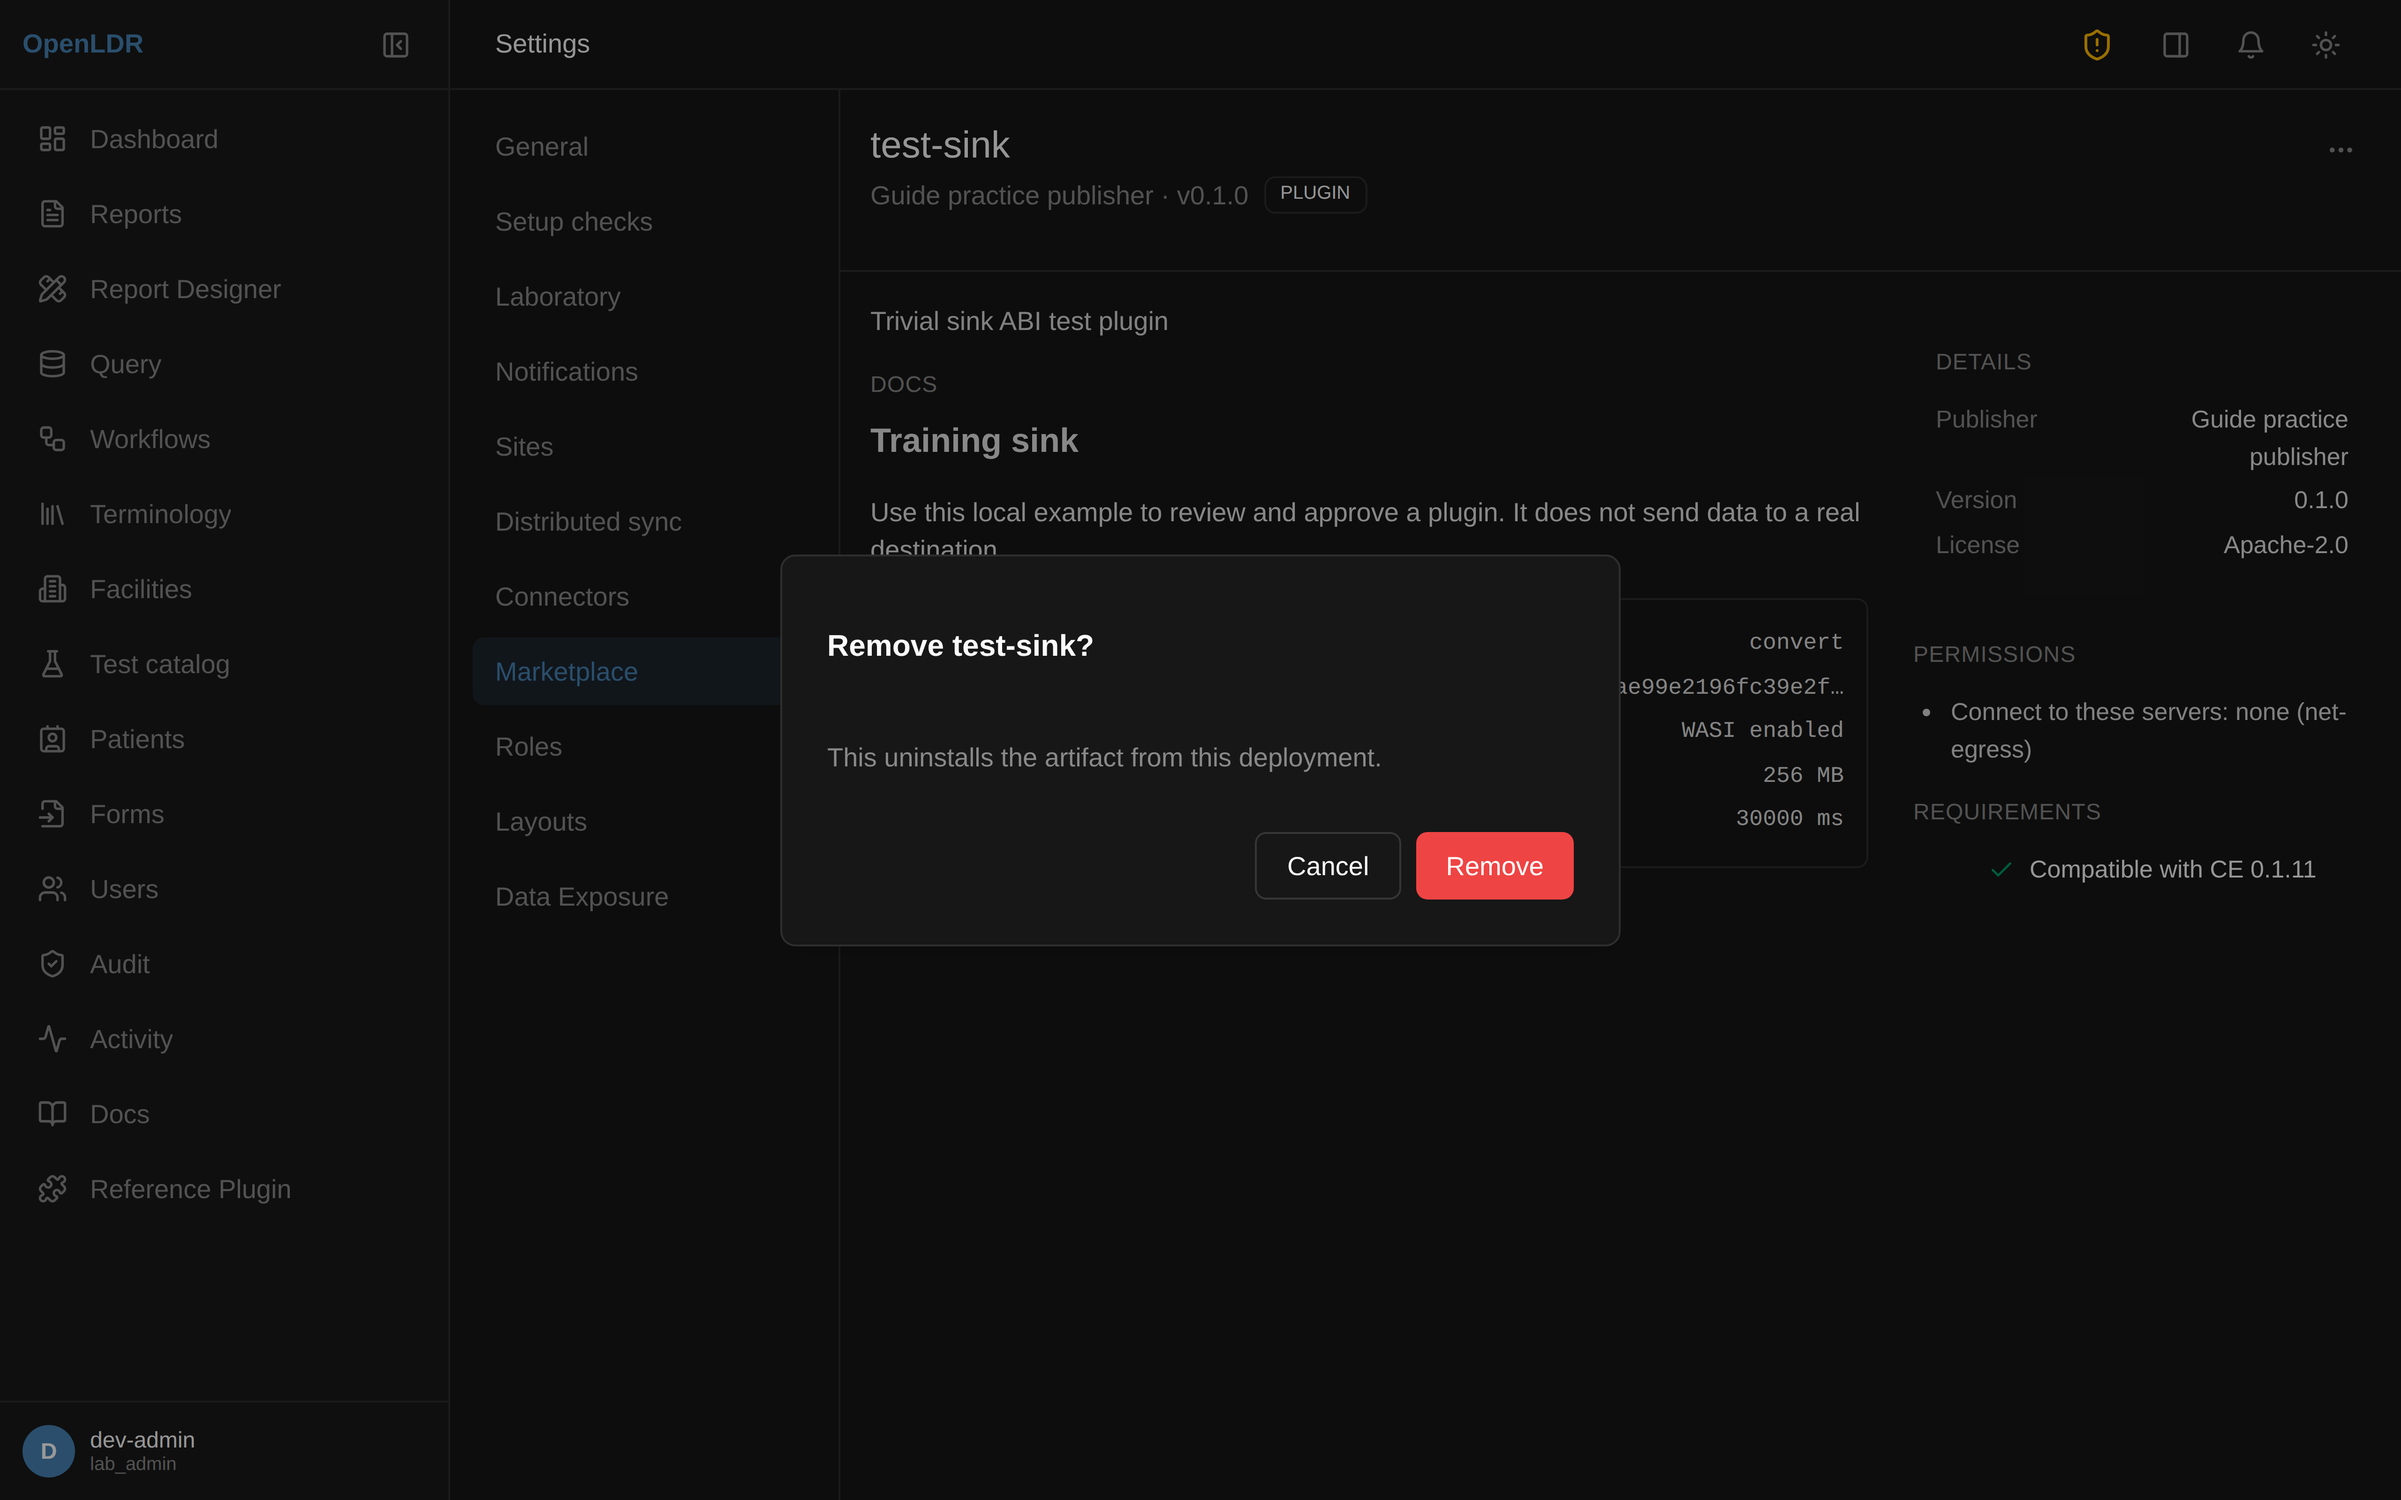
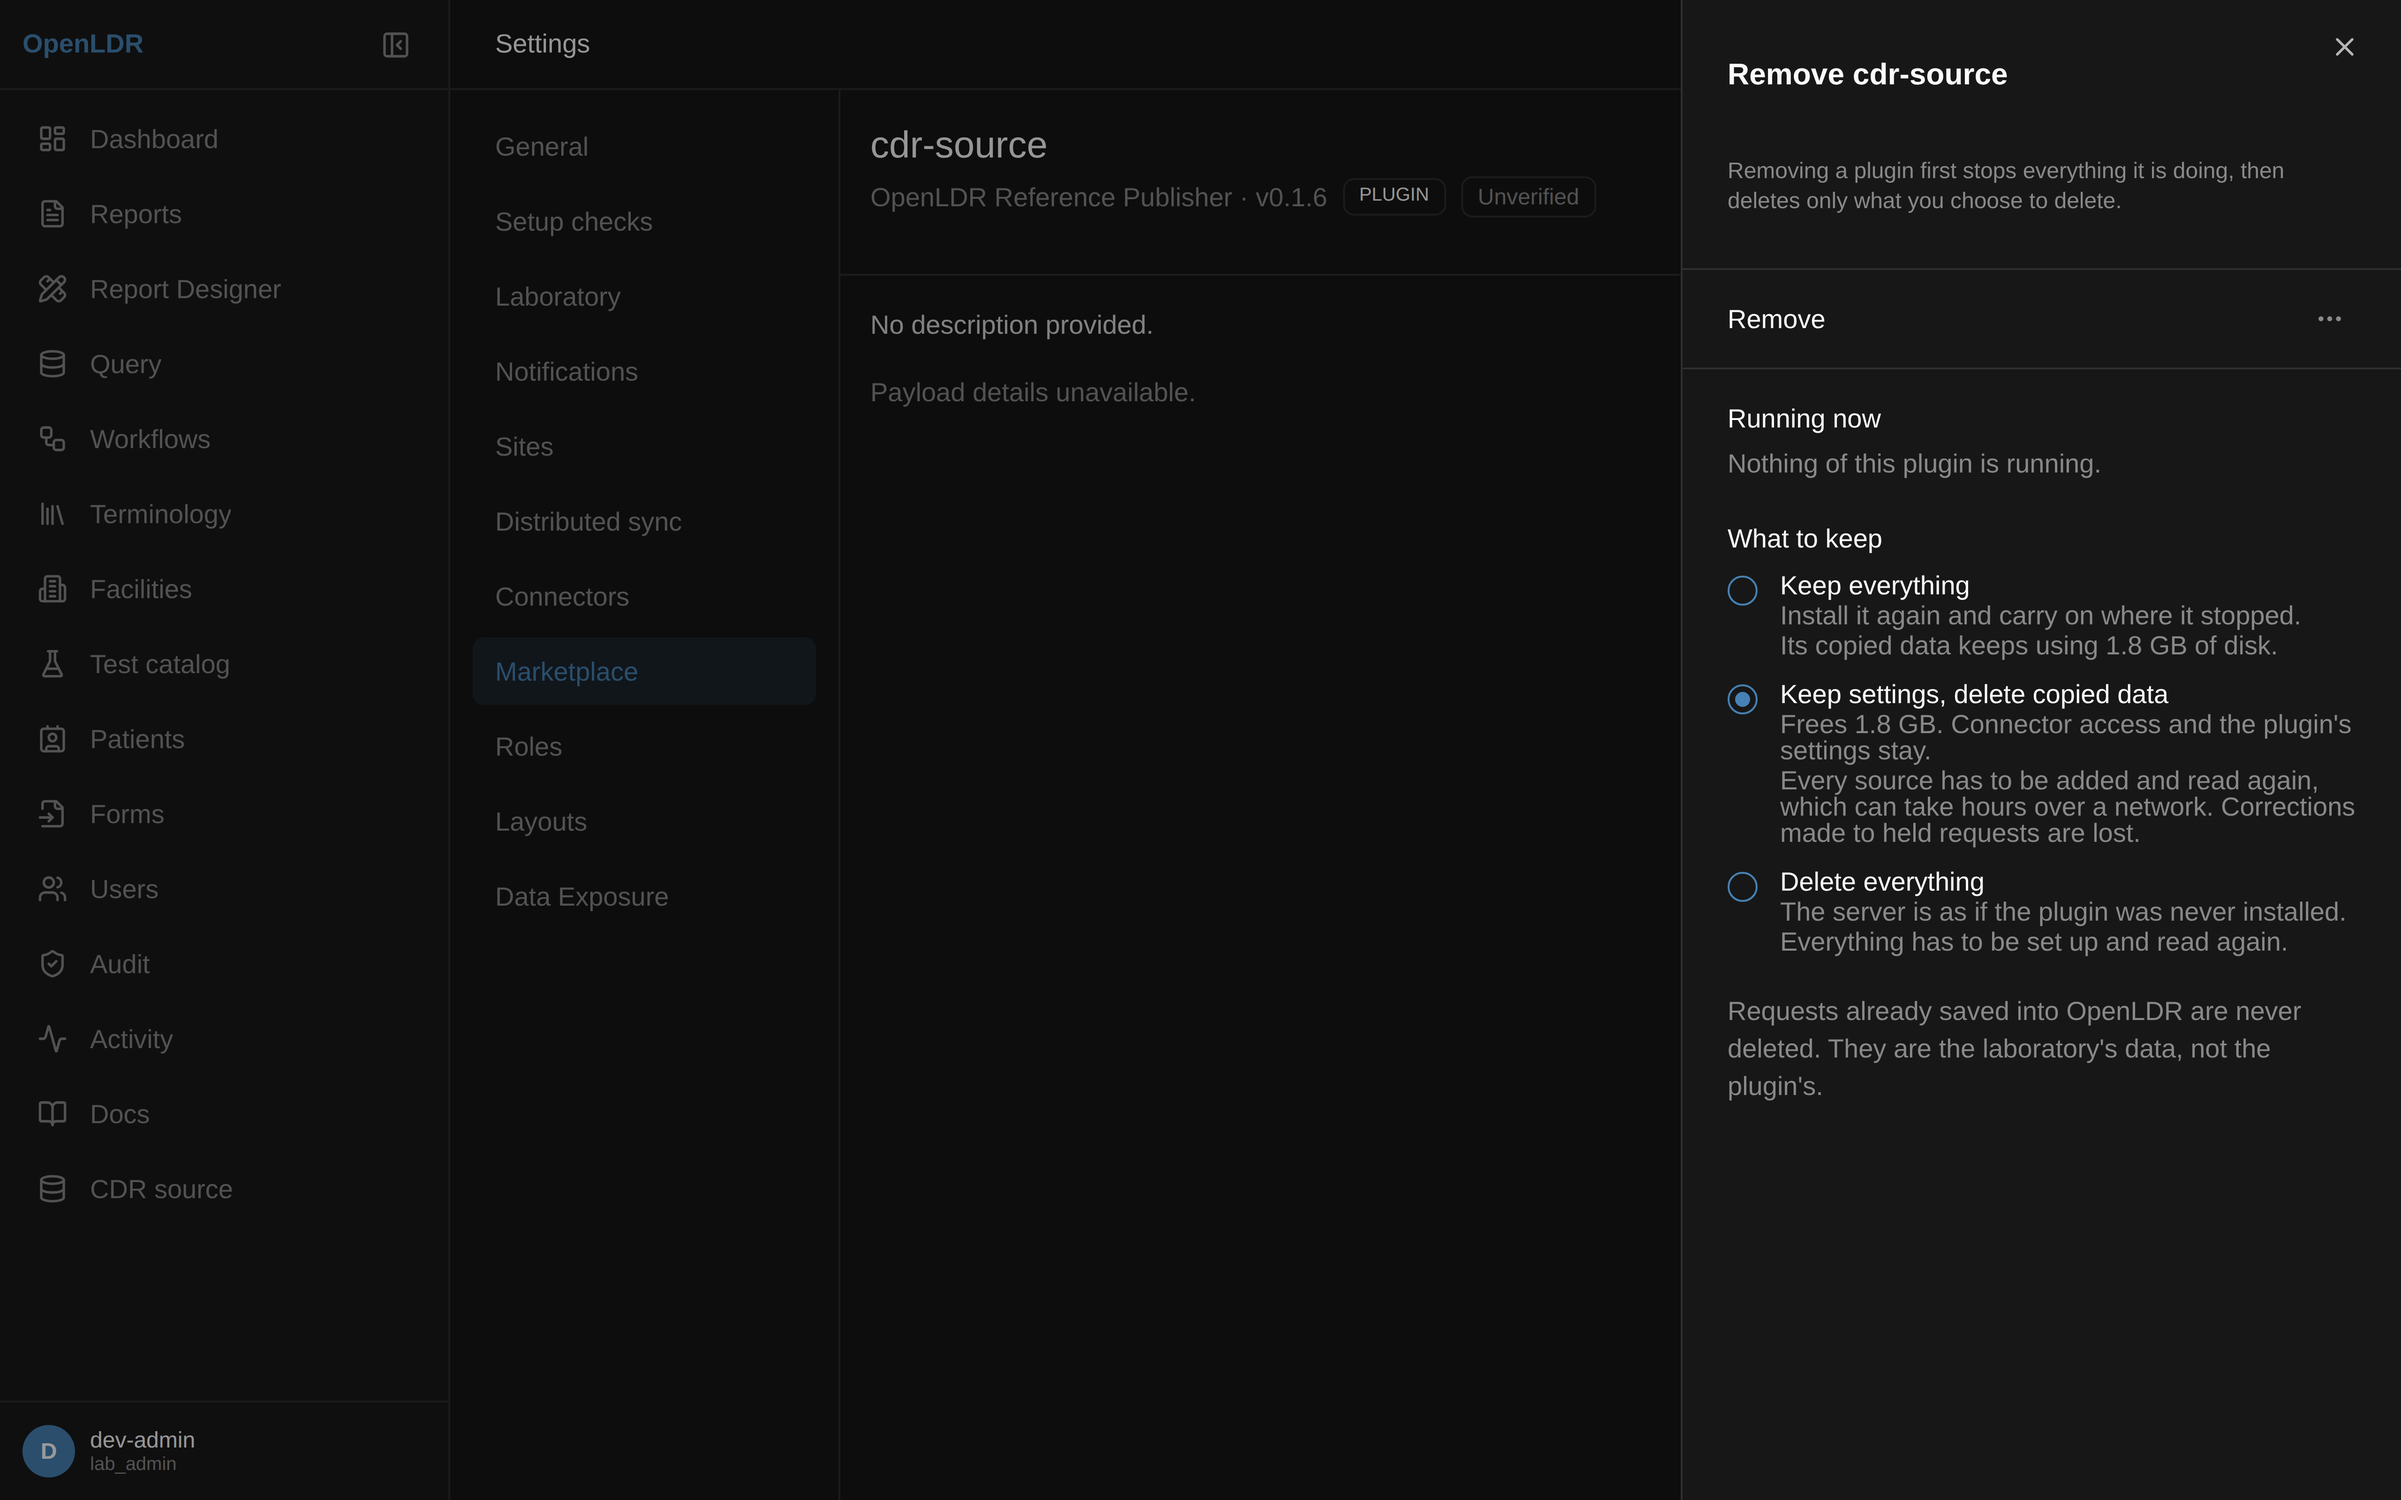
fix(studio): the Remove sheet's menu clears the close button, the radio shows a dot, and a copy being deleted is not offered as space to free

diff --git a/apps/studio/src/pages/settings/marketplace/RemovePluginSheet.tsx b/apps/studio/src/pages/settings/marketplace/RemovePluginSheet.tsx
@@ -64,25 +64,28 @@ export function RemovePluginSheet({ pluginId, open, onOpenChange, onRemoved }: {
   return (
     <Sheet open={open} onOpenChange={onOpenChange}>
       <SheetContent className="gap-0 overflow-y-auto p-0" data-testid="remove-plugin-sheet">
-        <SheetHeader className="border-b border-border px-6 py-4">
-          <div className="flex items-start justify-between gap-2">
-            <SheetTitle>{t(`${P}.title`, { id: pluginId })}</SheetTitle>
-            <DropdownMenu>
-              <DropdownMenuTrigger asChild>
-                <Button variant="ghost" size="icon" className="h-7 w-7 shrink-0" aria-label={t(`${P}.actions`)} data-testid="remove-plugin-menu" disabled={busy}>
-                  <MoreHorizontal className="h-4 w-4" />
-                </Button>
-              </DropdownMenuTrigger>
-              <DropdownMenuContent align="end">
-                <DropdownMenuItem className="text-destructive" disabled={!plan || busy} data-testid="remove-plugin-confirm" onSelect={() => { void doRemove(); }}>
-                  {t(`${P}.remove`)}
-                </DropdownMenuItem>
-                <DropdownMenuItem onSelect={() => onOpenChange(false)}>{t(`${P}.cancel`)}</DropdownMenuItem>
-              </DropdownMenuContent>
-            </DropdownMenu>
-          </div>
+        <SheetHeader className="border-b border-border px-6 py-4" data-testid="remove-plugin-header">
+          <SheetTitle>{t(`${P}.title`, { id: pluginId })}</SheetTitle>
           <SheetDescription>{t(`${P}.intro`)}</SheetDescription>
         </SheetHeader>
+        {/* The dots sit in their own row, as in FieldEditorSheet: in the header they would lie under
+            the sheet's close button, which takes the click (found in the live check, 2026-11-20). */}
+        <div className="flex items-center justify-between border-b border-border px-6 py-3">
+          <h3 className="m-0 text-sm font-medium text-foreground">{t(`${P}.remove`)}</h3>
+          <DropdownMenu>
+            <DropdownMenuTrigger asChild>
+              <Button variant="ghost" size="icon" className="h-7 w-7 shrink-0" aria-label={t(`${P}.actions`)} data-testid="remove-plugin-menu" disabled={busy}>
+                <MoreHorizontal className="h-4 w-4" />
+              </Button>
+            </DropdownMenuTrigger>
+            <DropdownMenuContent align="end">
+              <DropdownMenuItem className="text-destructive" disabled={!plan || busy} data-testid="remove-plugin-confirm" onSelect={() => { void doRemove(); }}>
+                {t(`${P}.remove`)}
+              </DropdownMenuItem>
+              <DropdownMenuItem onSelect={() => onOpenChange(false)}>{t(`${P}.cancel`)}</DropdownMenuItem>
+            </DropdownMenuContent>
+          </DropdownMenu>
+        </div>
 
         {!plan && !error ? (
           <div className="min-h-[16rem]"><LoadingState /></div>

diff --git a/apps/studio/src/components/ui/radio-group.tsx b/apps/studio/src/components/ui/radio-group.tsx
@@ -20,13 +20,15 @@ export const RadioGroupItem = React.forwardRef<
   <RadioGroupPrimitive.Item
     ref={ref}
     className={cn(
-      'aspect-square h-4 w-4 shrink-0 rounded-full border border-primary text-primary focus-visible:outline-none focus-visible:ring-2 focus-visible:ring-ring disabled:cursor-not-allowed disabled:opacity-50',
+      'inline-flex aspect-square h-4 w-4 shrink-0 items-center justify-center rounded-full border border-primary text-primary focus-visible:outline-none focus-visible:ring-2 focus-visible:ring-ring disabled:cursor-not-allowed disabled:opacity-50',
       className,
     )}
     {...props}
   >
+    {/* inline-flex on the item, as checkbox.tsx does: in an inline-block button the indicator got
+        2px of width and the dot showed as a thin bar (measured in the live check, 2026-11-20). */}
     <RadioGroupPrimitive.Indicator className="flex items-center justify-center">
-      <span className="h-2 w-2 rounded-full bg-current" />
+      <span className="h-2 w-2 shrink-0 rounded-full bg-current" />
     </RadioGroupPrimitive.Indicator>
   </RadioGroupPrimitive.Item>
 ));

diff --git a/packages/bootstrap/src/plugin-removal.ts b/packages/bootstrap/src/plugin-removal.ts
@@ -69,8 +69,10 @@ export function createPluginRemoval(deps: PluginRemovalDeps): PluginRemoval {
       ...imports.filter((r) => LIVE.has(r.status)).map((r) => ({ kind: 'import' as const, id: r.id, label: r.connectorId, status: r.status })),
       ...copies.filter((c) => LIVE.has(c.status)).map((c) => ({ kind: 'copy' as const, id: c.id, label: c.connectorId, status: c.status })),
     ];
-    const copiedBytes = copies.reduce((sum, c) => sum + Object.values(c.sets ?? {}).reduce((s, set) => s + (set.bytes ?? 0), 0), 0);
-    return { running, copies: copies.filter((c) => c.status !== 'deleting').length, copiedBytes };
+    // A copy already being deleted is going anyway: it is neither counted nor offered as space to free.
+    const kept = copies.filter((c) => c.status !== 'deleting');
+    const copiedBytes = kept.reduce((sum, c) => sum + Object.values(c.sets ?? {}).reduce((s, set) => s + (set.bytes ?? 0), 0), 0);
+    return { running, copies: kept.length, copiedBytes };
   }
 
   /** Waits until every id has left the live statuses, polling once a second. */

diff --git a/packages/bootstrap/src/plugin-removal.test.ts b/packages/bootstrap/src/plugin-removal.test.ts
@@ -72,6 +72,19 @@ describe('plugin removal', () => {
     expect(plan.copiedBytes).toBe(2_500);
   });
 
+  it('plan does not count a copy that is already being deleted (found in the live check)', async () => {
+    const { removal } = setup({
+      copies: [
+        { id: 'cp1', status: 'deleting', connectorId: 'c1', sets: { requests: { bytes: 1_800 } } },
+        { id: 'cp2', status: 'completed', connectorId: 'c2', sets: { requests: { bytes: 300 } } },
+      ],
+      checks: [],
+    });
+    const plan = await removal.plan('cdr-source');
+    expect(plan.copies).toBe(1);
+    expect(plan.copiedBytes).toBe(300);
+  });
+
   it('keep all: stops the check, then the read, waits, then removes only the plugin', async () => {
     const { removal, log, copies } = setup();
     const r = await removal.remove('cdr-source', { keep: 'all', actor });

diff --git a/apps/studio/src/pages/settings/marketplace/RemovePluginSheet.test.tsx b/apps/studio/src/pages/settings/marketplace/RemovePluginSheet.test.tsx
@@ -45,6 +45,12 @@ describe('RemovePluginSheet', () => {
     expect(screen.getByTestId('remove-saved-kept').textContent).toMatch(/never deleted/);
   });
 
+  it('keeps its dots menu out of the header, where the sheet\'s close button sits (found in the live check)', async () => {
+    render(<RemovePluginSheet pluginId="cdr-source" open onOpenChange={() => {}} onRemoved={() => {}} />);
+    const trigger = await screen.findByTestId('remove-plugin-menu');
+    expect(trigger.closest('[data-testid="remove-plugin-header"]')).toBeNull();
+  });
+
   it('Remove sends the chosen keep and reports back', async () => {
     const onRemoved = vi.fn();
     render(<RemovePluginSheet pluginId="cdr-source" open onOpenChange={() => {}} onRemoved={onRemoved} />);
